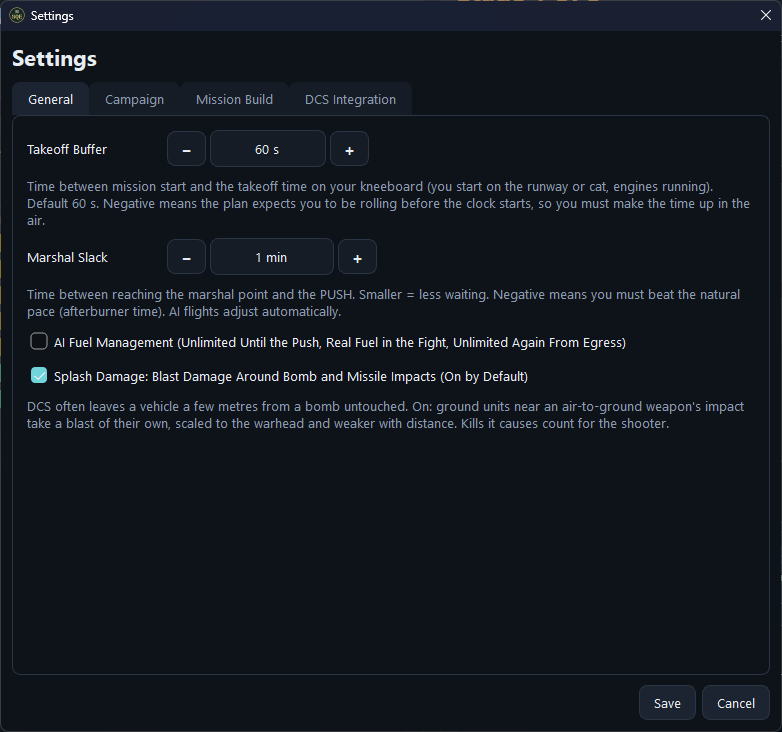
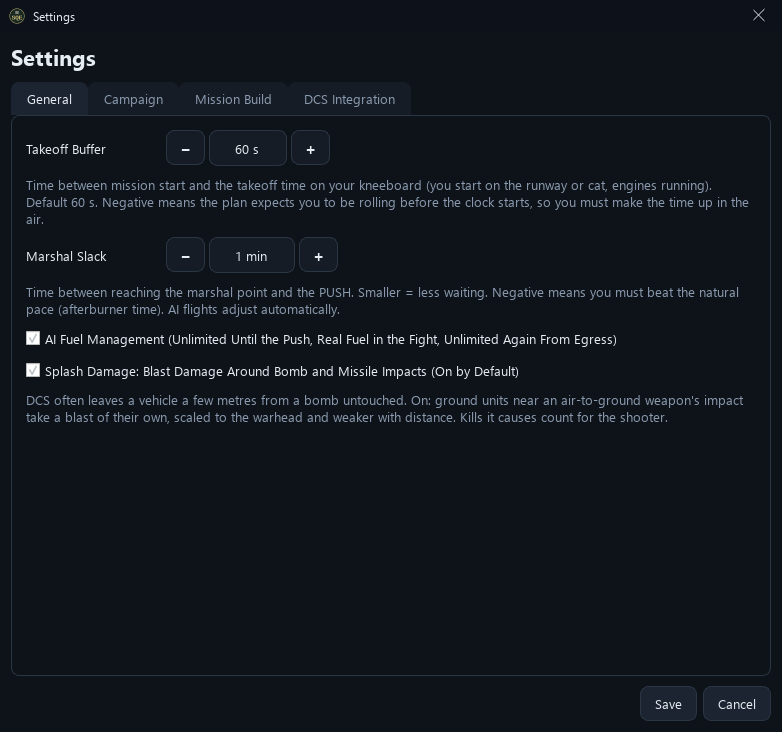
README screenshots refreshed: HVAACAP, the current windows (v0.41.644)

diff --git a/sqe/__init__.py b/sqe/__init__.py
@@ -1,7 +1,7 @@
 """Squadron Campaign Engine (SQE): abstracted war + one fully generated DCS package per sortie."""
 APP_NAME = "Squadron Campaign Engine"
 SHORT = "SQE"
-__version__ = "0.41.643"
+__version__ = "0.41.644"
 
 CAMPAIGN_EXT = ".sqe"
 FORMAT_VERSION = 7         # v0.41.334: 7 = the refit clock (state.turn, Squadron.refit / repl_due / held); older saves are refused (campaign rules plan, Phase 1)

diff --git a/docs/CHANGES.md b/docs/CHANGES.md
@@ -1,5 +1,8 @@
 # CHANGES.md
 
+## v0.41.644, README screenshots refreshed
+The README pictures show the current windows (HVAACAP in the Missions table and the kneeboard, the new AWACS and tanker texts). Docs only.
+
 ## v0.41.643, more code clean-up (S150 PR 14)
 The small one-line helpers behind the buttons, menus and tables in the windows are now plain named functions, for readability. Nothing changes in the game or the windows.
 
